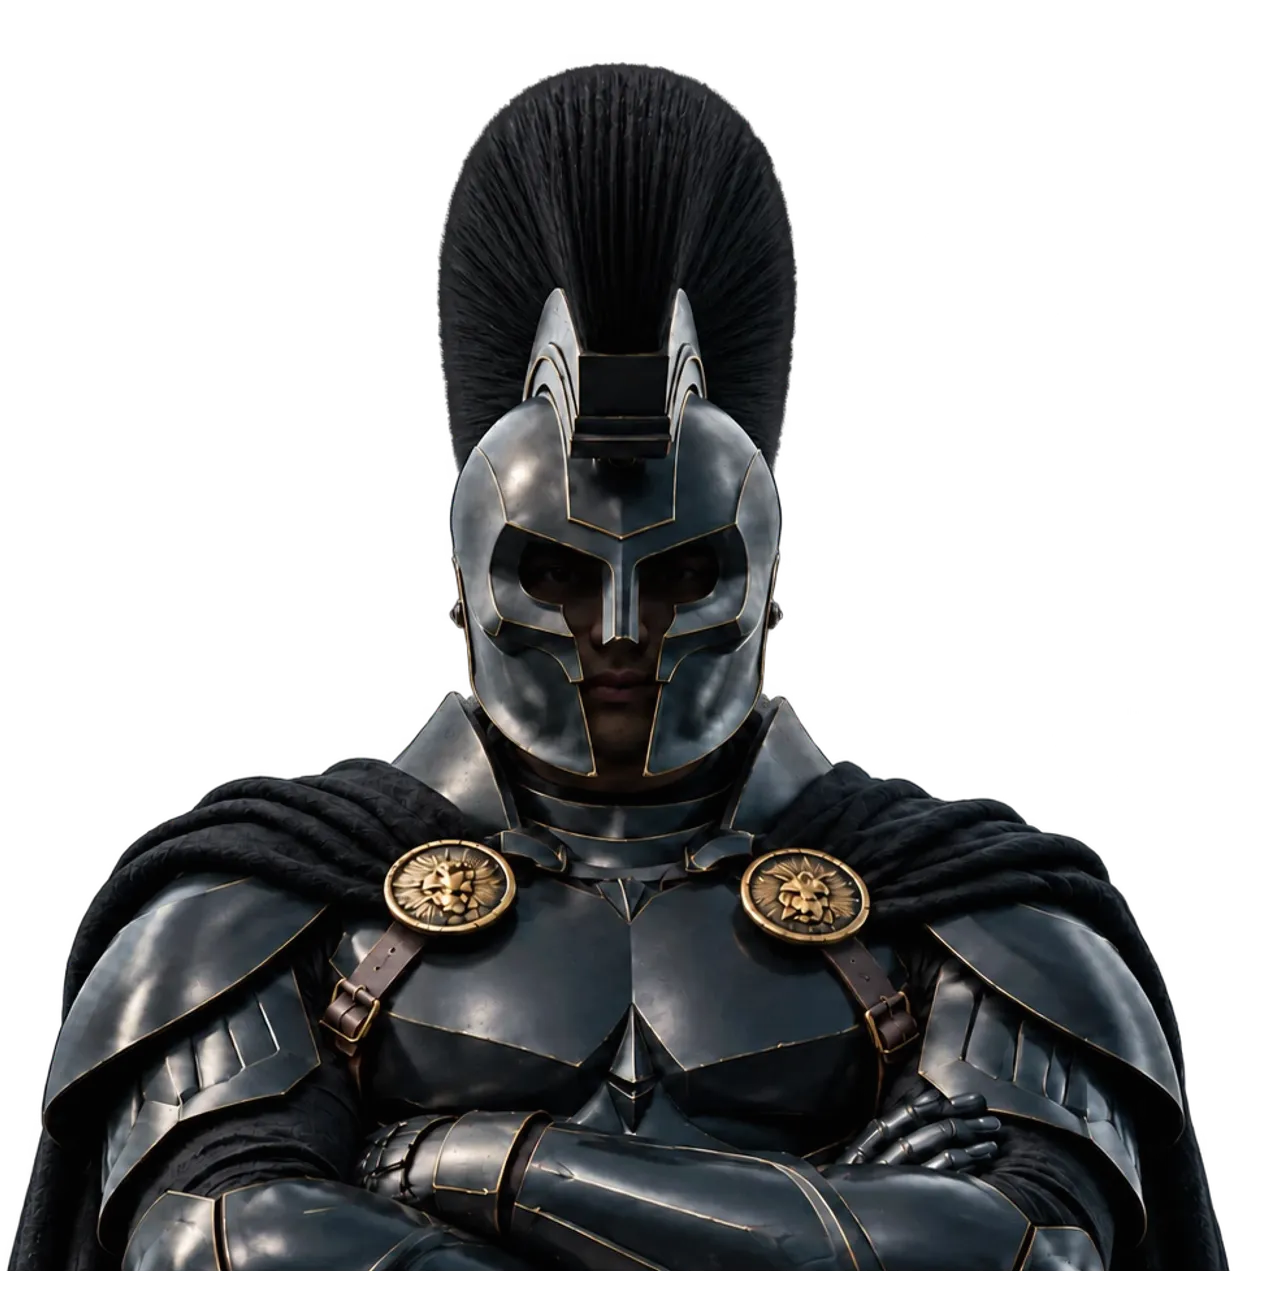
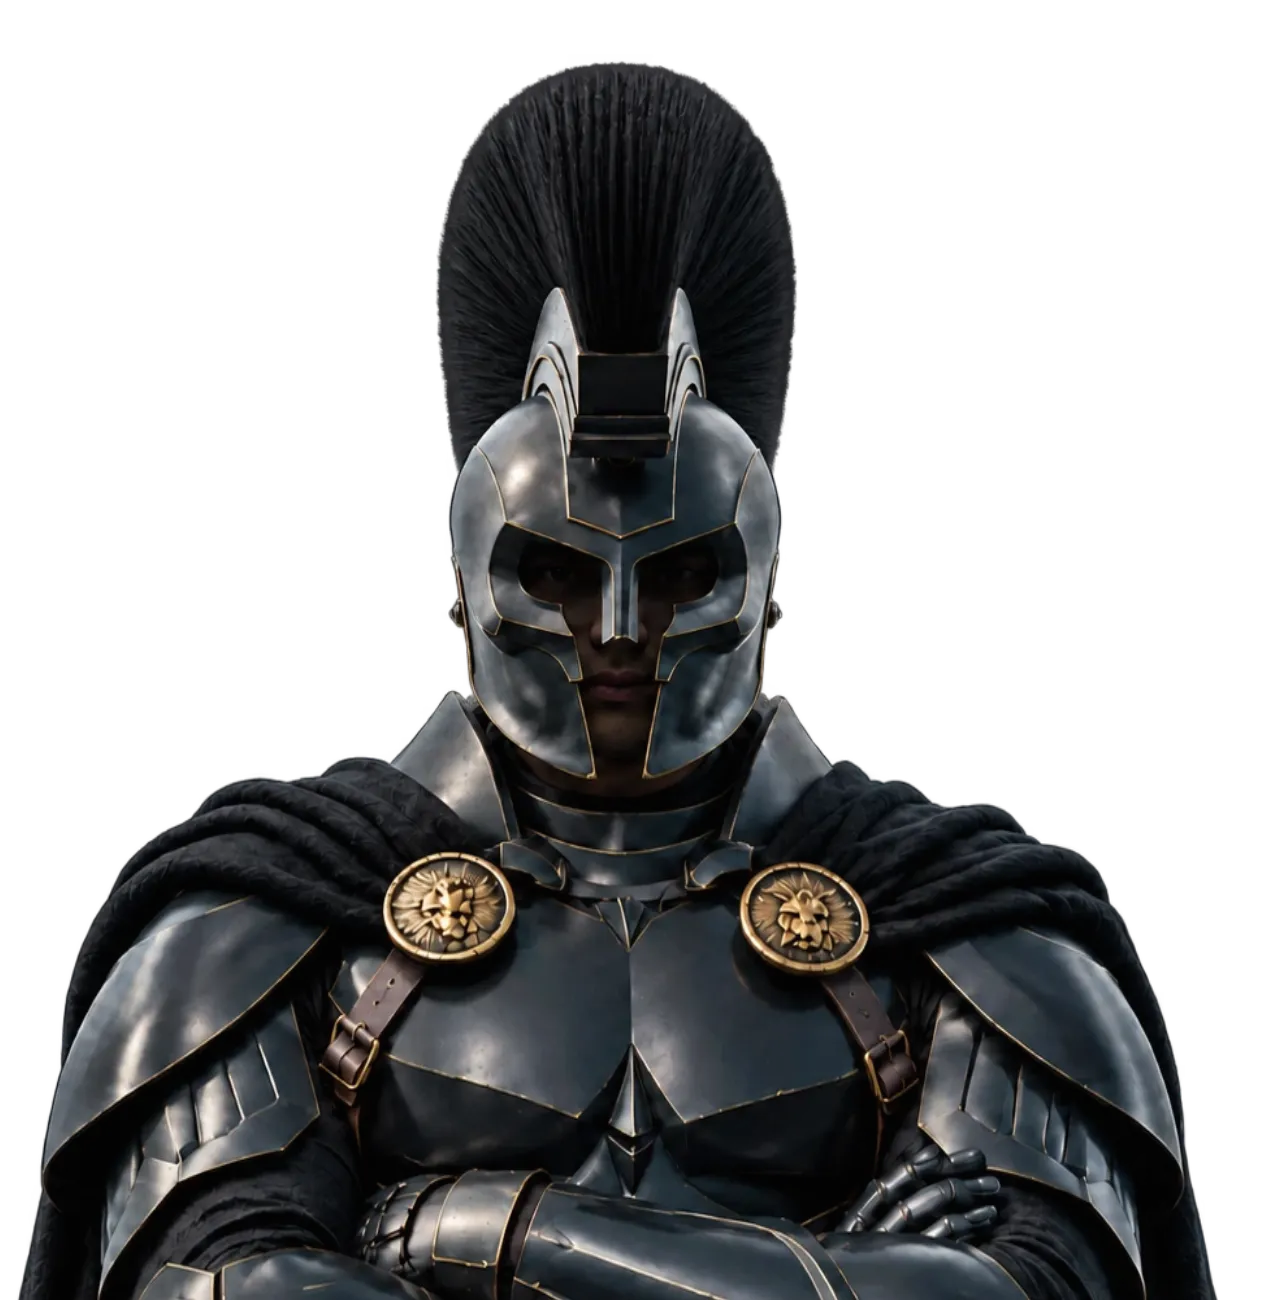
[CLAUDIA] fix(home): tangan armor pas, telinga hilang saat hover, jejak tipis di luar foto

diff --git a/Frontend/src/components/site/liquid-mask-portrait.tsx b/Frontend/src/components/site/liquid-mask-portrait.tsx
@@ -48,7 +48,9 @@ export function LiquidMaskPortrait({
     const mctx = mask.getContext('2d')
     const layer = document.createElement('canvas')
     const bctx = layer.getContext('2d')
-    if (!mctx || !bctx) return
+    const silhouette = document.createElement('canvas')
+    const sctx = silhouette.getContext('2d')
+    if (!mctx || !bctx || !sctx) return
     let photo: HTMLImageElement | null = null
     let blobs: Blob[] = []
     let pointer: { x: number; y: number } | null = null
@@ -85,6 +87,7 @@ export function LiquidMaskPortrait({
       bctx.clearRect(0, 0, layer.width, layer.height)
       if (!photo) return
       bctx.setTransform(dpr, 0, 0, dpr, 0, 0)
+      const style = getComputedStyle(root)
       const area = root.getBoundingClientRect()
       const rect = img.getBoundingClientRect()
       const x = rect.left - area.left
@@ -97,7 +100,7 @@ export function LiquidMaskPortrait({
         rect.width * (1 + 2 * bleed.x),
         rect.height * (1 + bleed.top),
       )
-      const fade = parseFloat(getComputedStyle(root).getPropertyValue('--hero-fade')) / 100 || 0
+      const fade = parseFloat(style.getPropertyValue('--hero-fade')) / 100 || 0
       if (fade > 0) {
         const top = y + rect.height * (1 - fade)
         const gradient = bctx.createLinearGradient(0, top, 0, y + rect.height)
@@ -115,6 +118,28 @@ export function LiquidMaskPortrait({
         )
         bctx.globalCompositeOperation = 'source-over'
       }
+      // di luar tubuh jejak tetap terlihat sebagai bentuk cair tipis (seperti referensi); digambar di
+      // belakang armor setelah gradasi agar tidak ikut terhapus. Warna dari --hero-trail sesuai tema.
+      const trail = style.getPropertyValue('--hero-trail').trim()
+      if (trail) {
+        bctx.globalCompositeOperation = 'destination-over'
+        bctx.fillStyle = trail
+        bctx.fillRect(0, 0, width, height)
+      }
+      // Paling belakang: siluet foto pertama berwarna latar halaman, jadi di dalam jejak foto benar-benar
+      // berganti dan bagian yang tidak tertutup armor (mis. telinga) hilang (permintaan pemilik 2026-10-19)
+      sctx.setTransform(1, 0, 0, 1, 0, 0)
+      sctx.clearRect(0, 0, silhouette.width, silhouette.height)
+      sctx.setTransform(dpr, 0, 0, dpr, 0, 0)
+      sctx.globalCompositeOperation = 'source-over'
+      sctx.drawImage(img, x, y, rect.width, rect.height)
+      sctx.globalCompositeOperation = 'source-in'
+      sctx.fillStyle = getComputedStyle(document.body).backgroundColor
+      sctx.fillRect(0, 0, width, height)
+      bctx.setTransform(1, 0, 0, 1, 0, 0)
+      bctx.globalCompositeOperation = 'destination-over'
+      bctx.drawImage(silhouette, 0, 0)
+      bctx.globalCompositeOperation = 'source-over'
       bctx.restore()
     }
 
@@ -123,7 +148,7 @@ export function LiquidMaskPortrait({
       width = rect.width
       height = rect.height
       dpr = Math.min(2, window.devicePixelRatio || 1)
-      for (const c of [canvas, mask, layer]) {
+      for (const c of [canvas, mask, layer, silhouette]) {
         c.width = Math.round(width * dpr)
         c.height = Math.round(height * dpr)
       }
@@ -132,6 +157,14 @@ export function LiquidMaskPortrait({
     resize()
     const resizeObserver = new ResizeObserver(resize)
     resizeObserver.observe(root)
+    // ganti tema (kelas di <html>) mengubah warna jejak dan gradasi: susun ulang lapisan kedua
+    const themeObserver = new MutationObserver(() => {
+      dirty = true
+    })
+    themeObserver.observe(document.documentElement, {
+      attributes: true,
+      attributeFilter: ['class'],
+    })
 
     const add = (x: number, y: number, strength = 1) => {
       blobs.push({
@@ -228,6 +261,7 @@ export function LiquidMaskPortrait({
       cancelAnimationFrame(frame)
       window.clearTimeout(timer)
       resizeObserver.disconnect()
+      themeObserver.disconnect()
       root.removeEventListener('pointermove', onMove)
       root.removeEventListener('pointerleave', onLeave)
       root.removeEventListener('pointerdown', onDown)

diff --git a/Frontend/src/app/globals.css b/Frontend/src/app/globals.css
@@ -2550,6 +2550,8 @@ html[data-intro='pending'] body {
   /* halo lembut dan panjang gradasi bawah foto; tema terang lebih tipis */
   --hero-glow: rgb(29 95 208 / 0.16);
   --hero-fade: 14%;
+  /* jejak hover di luar tubuh (bentuk cair tipis, seperti referensi HoverMaskReveal) */
+  --hero-trail: rgb(10 10 10 / 0.07);
   container-type: size;
   position: relative;
   /* satu layar penuh di bawah topbar (±3,5rem); lvh agar bagian berikutnya tidak mengintip saat
@@ -2737,11 +2739,13 @@ html[data-intro='pending'] body {
 .dark .hero {
   --hero-glow: rgb(255 255 255 / 0.18);
   --hero-fade: 24%;
+  --hero-trail: rgb(255 255 255 / 0.1);
 }
 @media (prefers-color-scheme: dark) {
   :root:not(.light):not(.dark) .hero {
     --hero-glow: rgb(255 255 255 / 0.18);
     --hero-fade: 24%;
+    --hero-trail: rgb(255 255 255 / 0.1);
   }
 }
 

diff --git a/Frontend/src/lib/default-photo.ts b/Frontend/src/lib/default-photo.ts
@@ -12,7 +12,8 @@ export const DEFAULT_PROFILE_AVATAR = avatar
 // transparan, 4:5 dengan subjek rata bawah. Tidak diganti oleh foto dari admin.
 export const HERO_PORTRAIT = hero
 // Gambar kedua liquid mask di hero (pemilik 2026-10-19): armor dengan pose yang sama, diskalakan 1,3× dan
-// diselaraskan ke HERO_PORTRAIT (mata, lebar kepala, dan tangan bersilang sejajar). Bingkainya lebih besar
+// diselaraskan ke HERO_PORTRAIT (mata dan lebar kepala sejajar); dari leher ke bawah (y 560) diregangkan
+// vertikal 1,17× agar tangan bersilang jatuh di tangan foto. Bingkainya lebih besar
 // 80 px di kiri-kanan dan 200 px di atas (dalam ukuran 1120×1100), agar jambul helm menjulang di atas foto.
 export const HERO_ARMOR = armor
 export const HERO_ARMOR_BLEED = { x: 80 / 1120, top: 200 / 1100 } as const

diff --git a/Documentation/DESIGN.md b/Documentation/DESIGN.md
@@ -1180,3 +1180,8 @@ Permintaan pemilik: saat di-hover, foto berganti menjadi armor seperti referensi
 - `LiquidMaskPortrait` menerima `back` (alamat gambar) dan `bleed`, lalu menggambar armor tepat di atas `<img>` pertama dengan ruang tambahan itu. Bagian bawah armor memudar sama seperti foto (`--hero-fade`).
 - Gambar armor (±100 KB) dimuat 1,2 detik setelah halaman tampil, atau saat hero pertama kali disentuh, jadi tidak memperlambat tampilan awal.
 - Bila foto hero atau armor diganti, penyelarasan (skala 1,3×, posisi mata) perlu dihitung ulang.
+- **Revisi armor (2026-10-19):**
+  - Dari leher ke bawah (y 560 dalam bingkai foto), armor diregangkan vertikal 1,17× agar sarung tangan dan lengan bersilang jatuh tepat di tangan foto.
+  - Kepala tidak dilebarkan; ukuran helm tetap seperti semula (pemilik menolak pelebaran 16%). Supaya telinga tidak terlihat saat di-hover, lapisan kedua diberi siluet foto berwarna latar halaman di paling belakang. Di dalam jejak, foto benar-benar berganti menjadi armor, dan bagian foto yang tidak tertutup armor (telinga) hilang, seperti video referensi. Huruf nama yang bertumpuk dengan siluet ikut tertutup di dalam jejak.
+  - Disetujui lewat gambar perbandingan setengah tembus.
+- **Jejak di luar tubuh:** seperti video referensi, jejak hover tetap terlihat di luar foto sebagai bentuk cair tipis (`--hero-trail`: hitam 7% di tema terang, putih 10% di tema gelap). Jejak digambar di belakang armor setelah gradasi bawah. Lapisan disusun ulang saat tema berganti.
